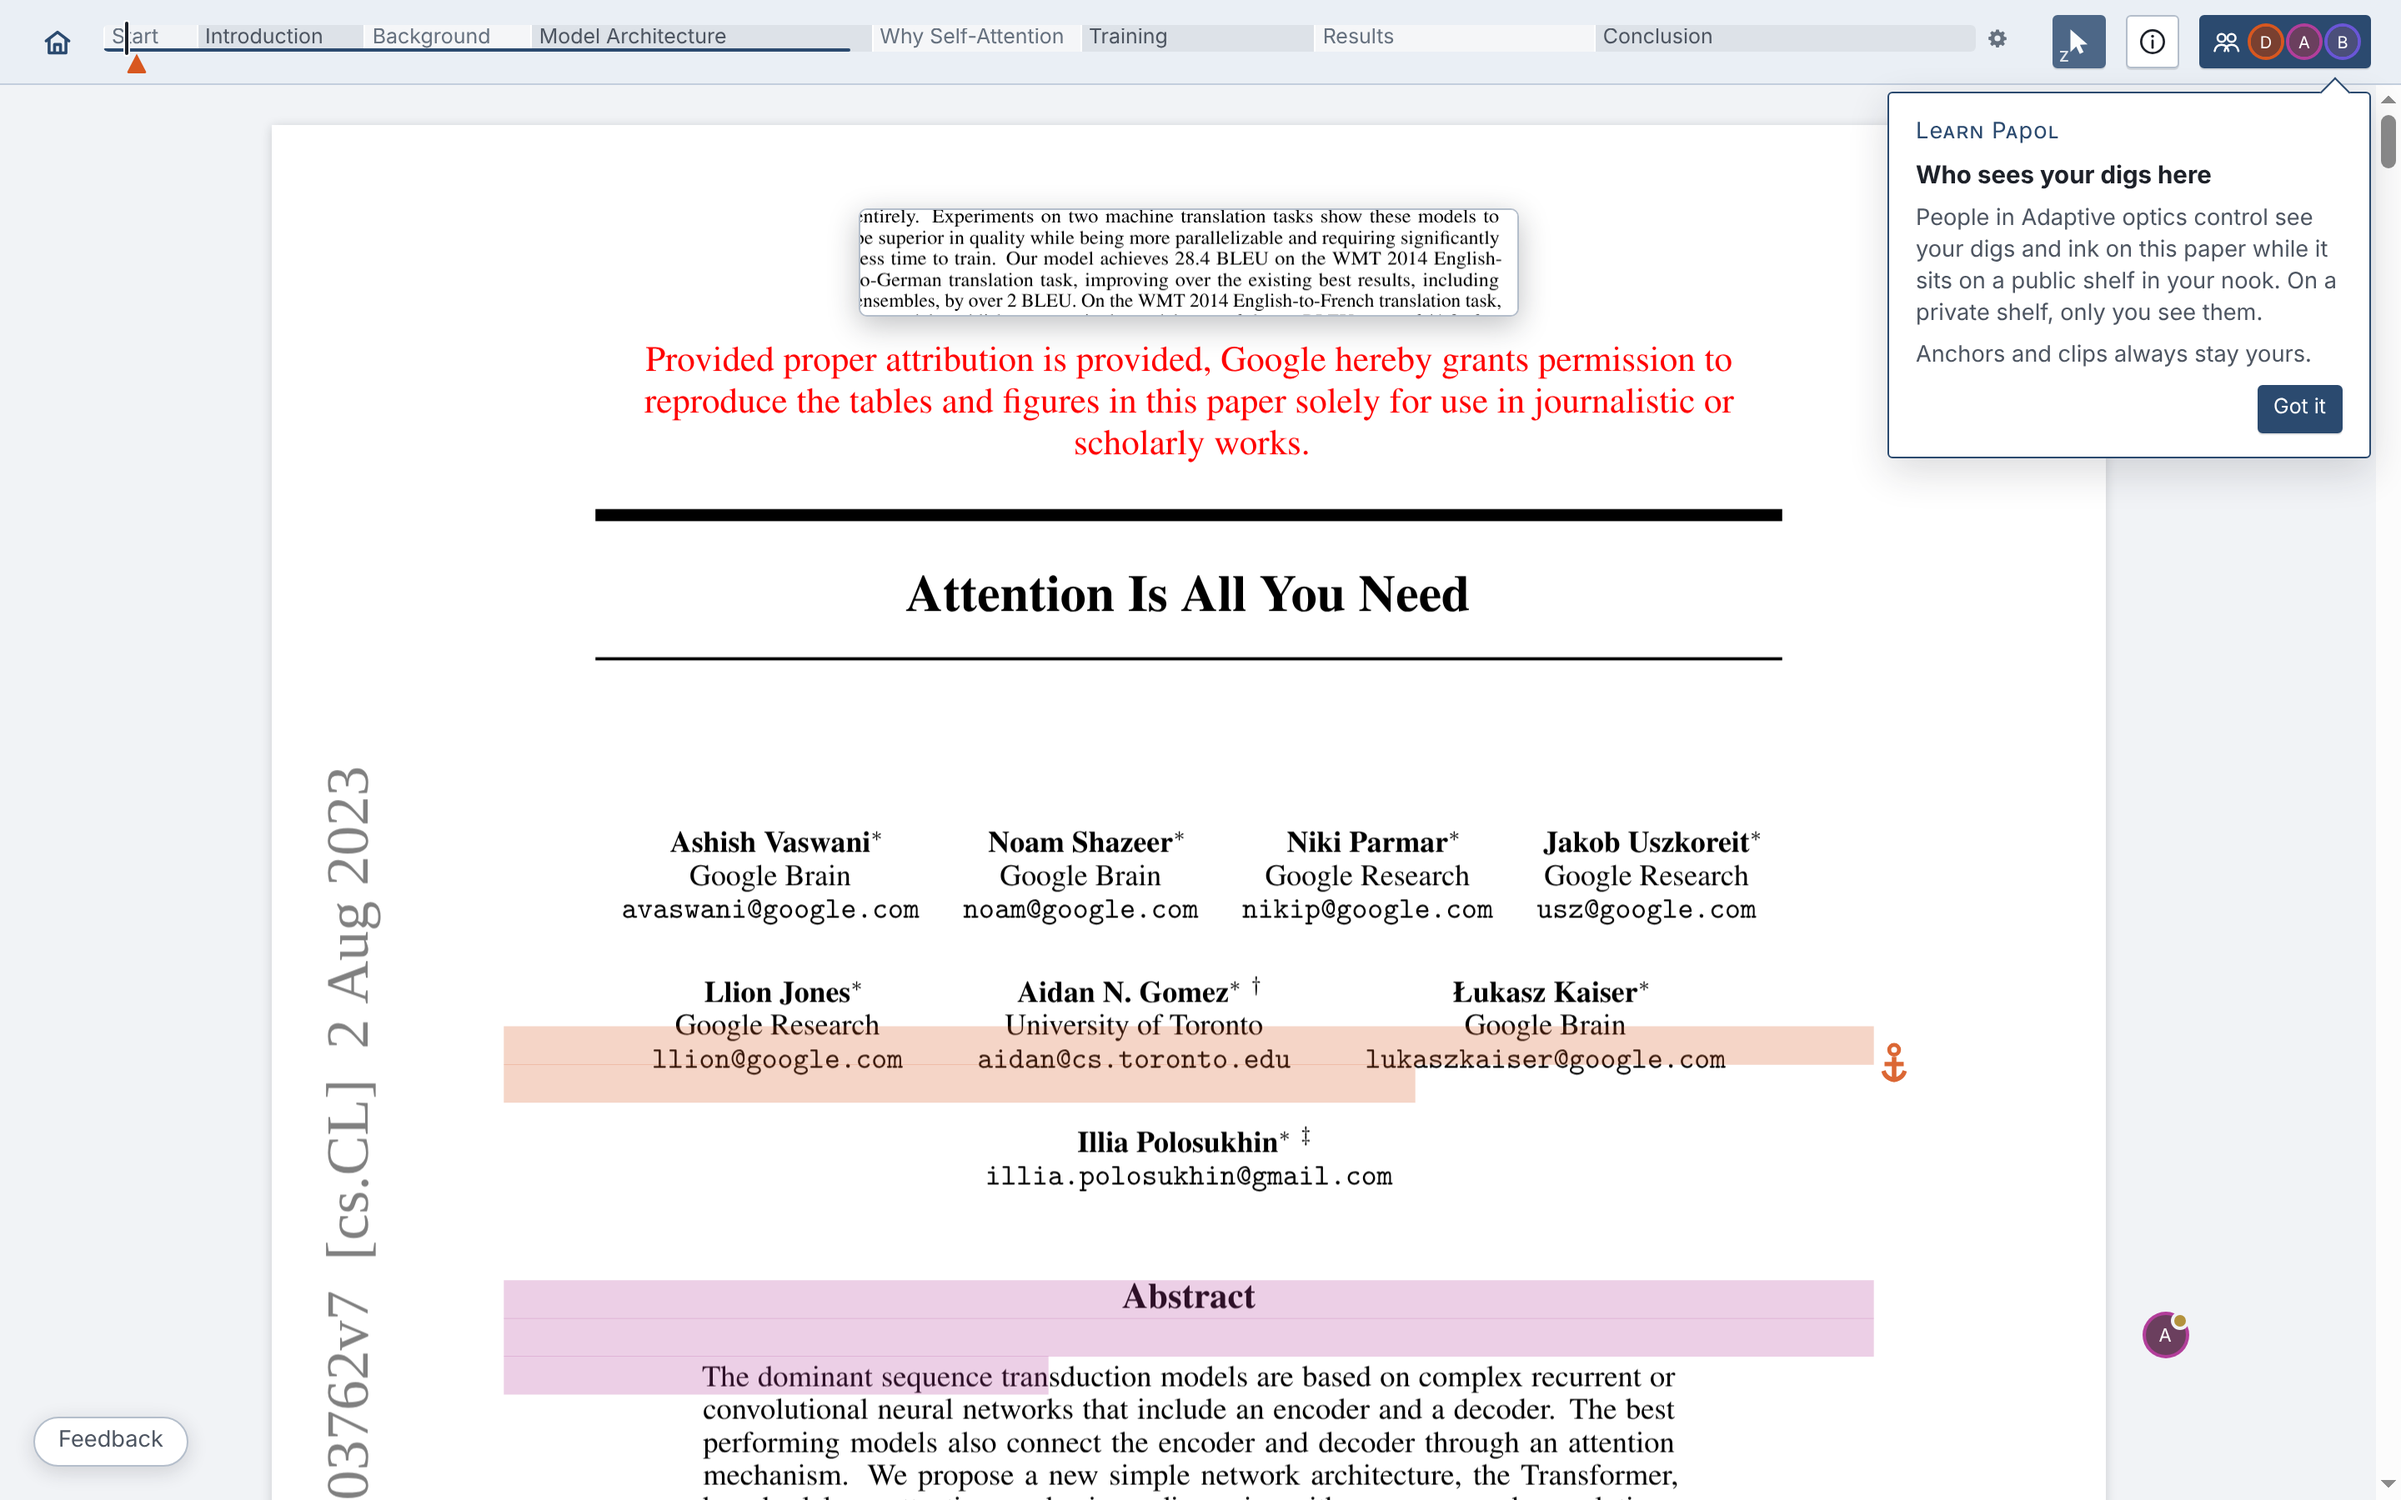
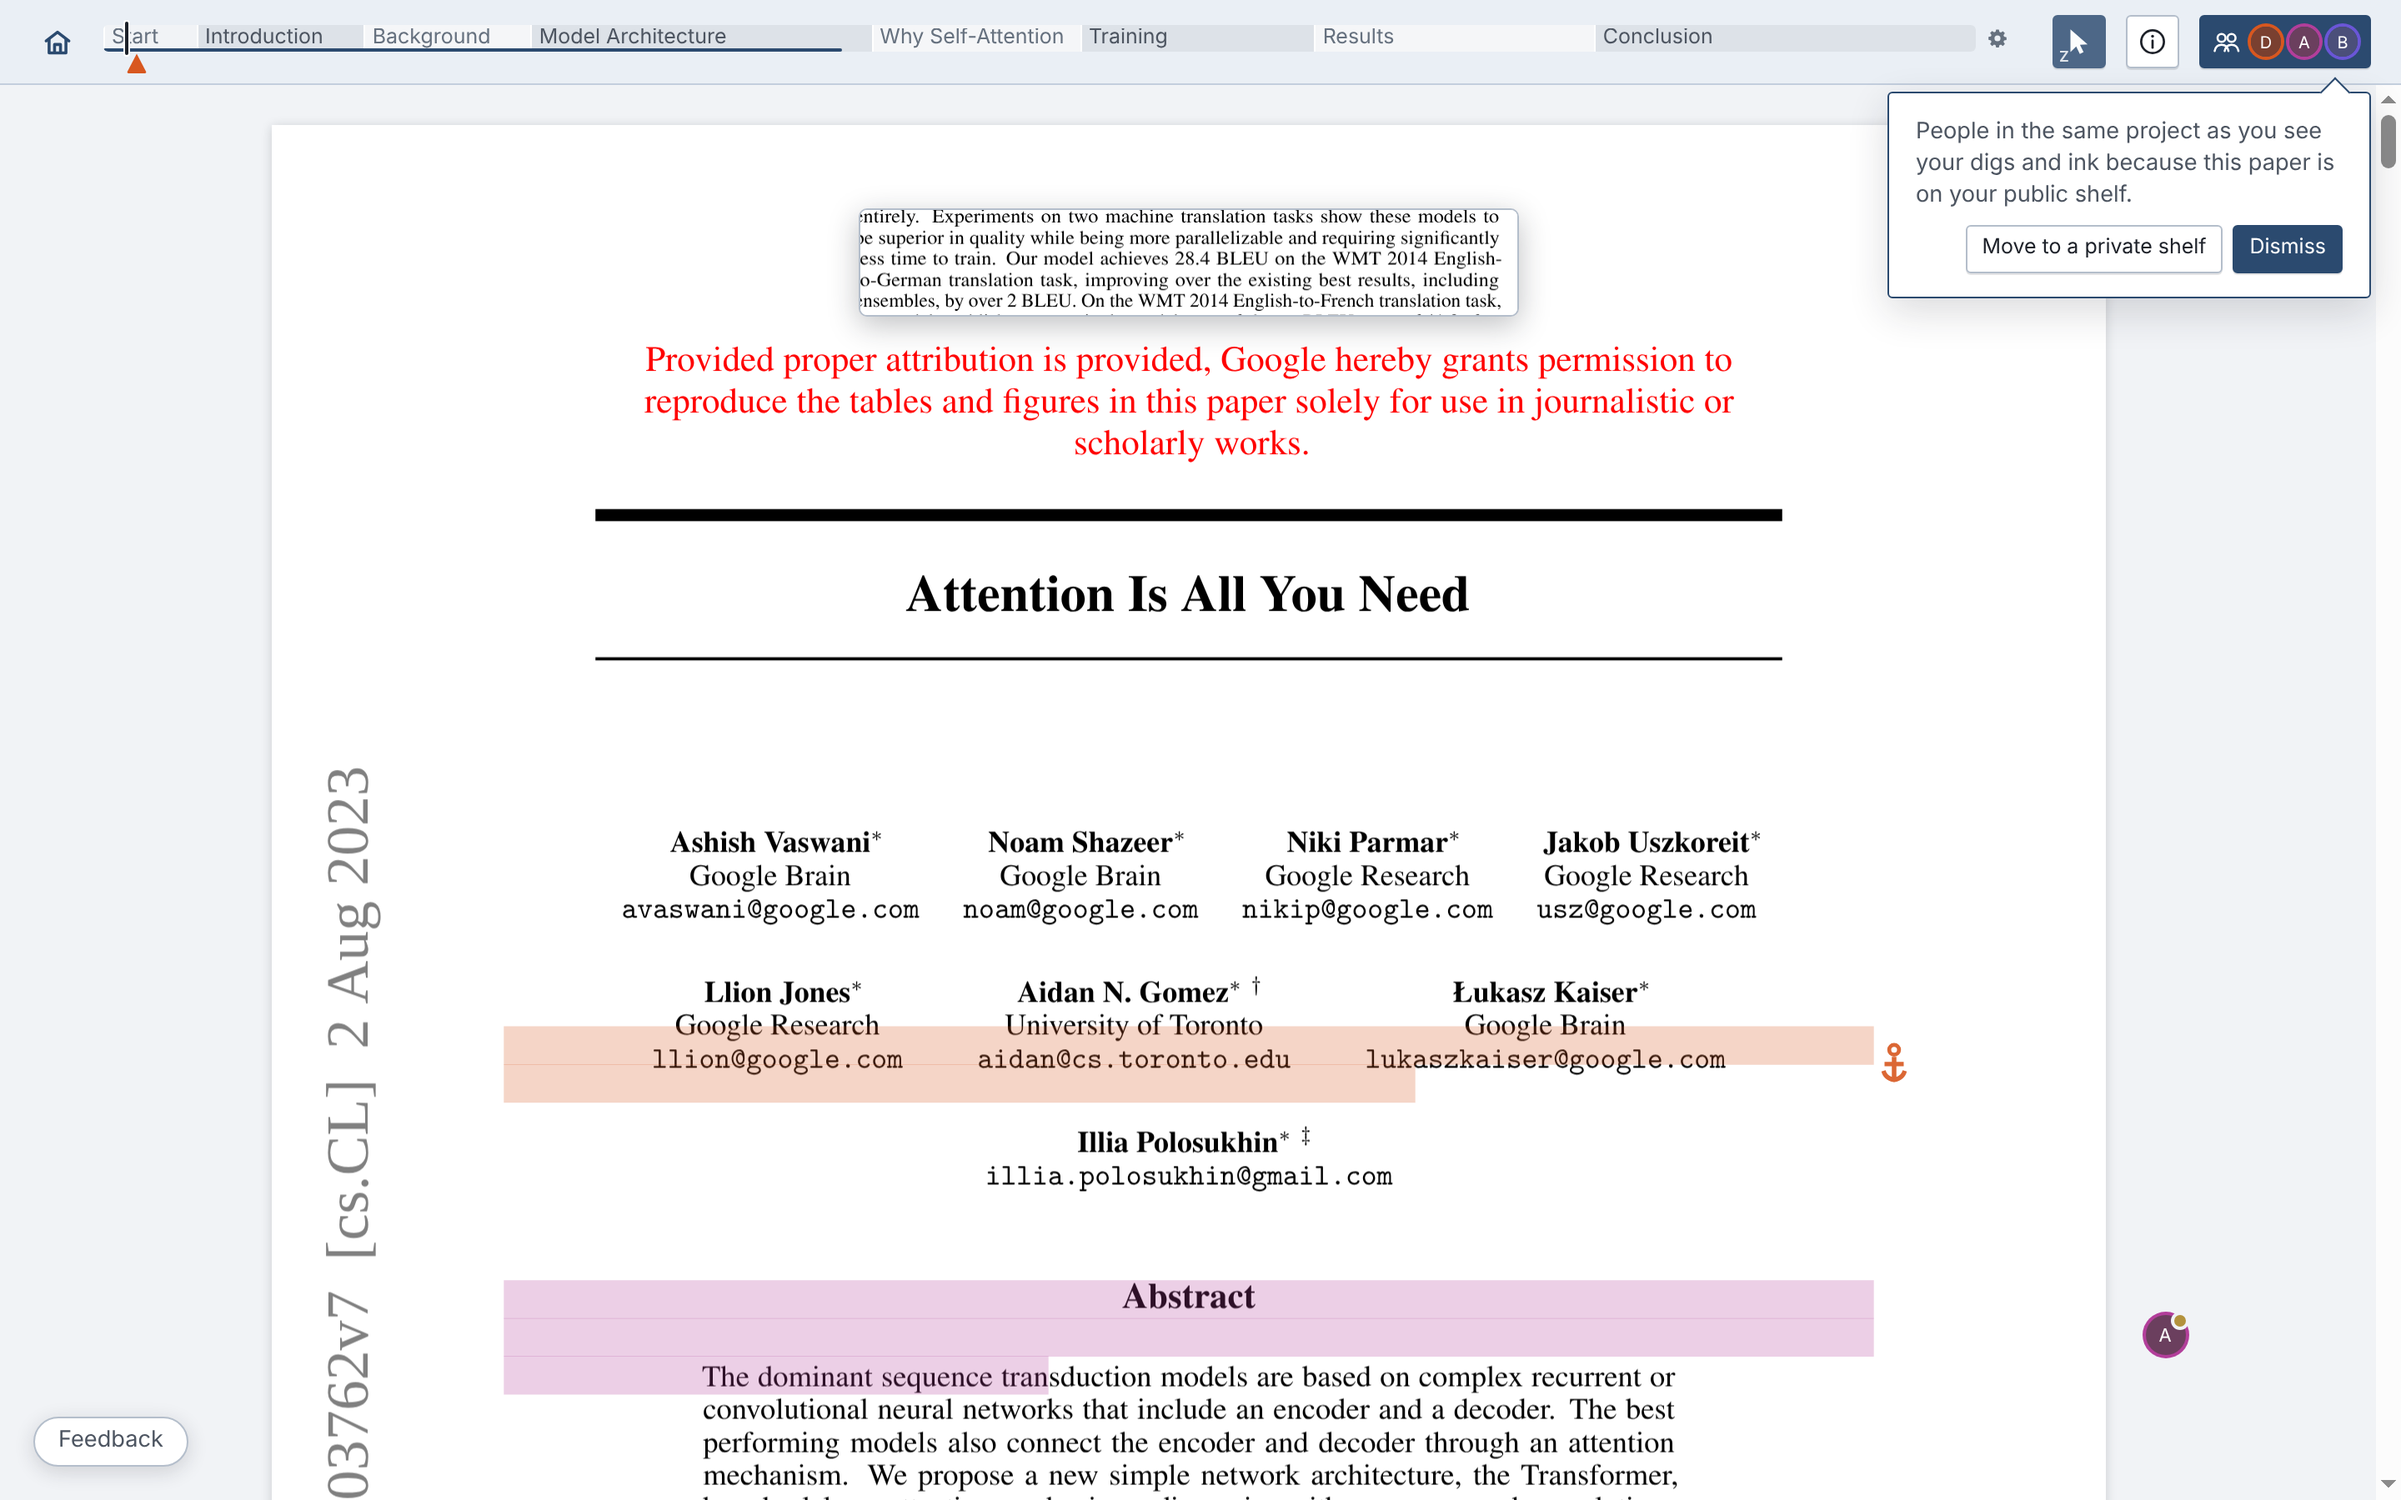
Viewer: the project tip says which shelf decides, and moves the paper
The card now says in one line whether people in the project see your digs
and ink, by the shelf the paper is on, and offers to move it to the other
kind. The project annotations route reports the reader's shelf as
my_shelf; there is no tip while they don't keep the paper.

Claude-Session: https://claude.ai/code/session_01PQZzMTGjGHdUVc3msWkwyr

Changed region(s): [[0.7812, 0.0622, 1.0, 0.2489], [0.9375, 0.2489, 1.0, 0.3111], [0.8125, 0.28, 0.9062, 0.3111]]

diff --git a/viewer/src/App.jsx b/viewer/src/App.jsx
@@ -23,6 +23,7 @@ import { printedInDocument } from '../../shared/printed.js';
 import { anchorsIn, annotationKinds, clipsIn, inkIn } from './annotationKinds.js';
 import { annotationDown, inMemberInk, marginLinesOf, memberInk, sortAnnotations, whoMarked, withProject } from './project.js';
 import { listProjects } from '../../shared/api/projects.js';
+import { updatePaper } from '../../shared/api/papers.js';
 import Avatar from '../../shared/ui/Avatar.jsx';
 import ThingBar from './ThingBar.jsx';
 import { selectionBarPlace } from './selectionBar.js';
@@ -762,6 +763,22 @@ export default function App() {
   const dismissProjectVisibilityTip = () => {
     setFeatureState(PROJECT_VISIBILITY_TIP, true);
     setProjectVisibilityTipDismissed(true);
+  };
+  const [movingShelf, setMovingShelf] = useState(false);
+  // Moves the reader's copy to their first shelf of the other kind, which
+  // is what decides whether the project sees their digs and ink.
+  const moveToOtherShelf = async () => {
+    if (!projectView?.myShelf || !paper?.sha256) return;
+    const toPublic = projectView.myShelf === 'private';
+    setMovingShelf(true);
+    try {
+      await updatePaper(paper.sha256, { is_public: toPublic });
+      setProjectView((view) => (view ? { ...view, myShelf: toPublic ? 'public' : 'private' } : view));
+    } catch (failure) {
+      setError(messageOf(failure));
+    } finally {
+      setMovingShelf(false);
+    }
   };
   // A PDF opened from disk: adding it to a nook is the one step that needs
   // an account. idle | ask (sign in first?) | waiting (for the library
@@ -1768,6 +1785,8 @@ export default function App() {
           // Others' anchors and clips are never drawn: one that carries a
           // dig the reader can see comes as a place, for its margin line.
           places: read.places ?? [],
+          // 'public', 'private', or null while the reader doesn't keep it.
+          myShelf: read.my_shelf ?? null,
         });
       })
       .catch(() => {
@@ -4670,23 +4689,21 @@ export default function App() {
                     </span>
                   )}
                 </button>
-                {projectView && !projectVisibilityTipDismissed && !projectMenuOpen && (
-                  <span className="learn-papol project-visibility-tip" role="dialog" aria-labelledby="project-visibility-tip-title">
-                    <span className="kicker">Learn Papol</span>
-                    <strong id="project-visibility-tip-title">Who sees your digs here</strong>
+                {projectView?.myShelf && !projectVisibilityTipDismissed && !projectMenuOpen && (
+                  <span className="learn-papol project-visibility-tip" role="dialog" aria-label="Who sees your digs">
                     <span>
-                      People in {projectView.name} see your digs and ink on this paper while
-                      it sits on a public shelf in your nook. On a private shelf, only you see them.
+                      {projectView.myShelf === 'public'
+                        ? 'People in the same project as you see your digs and ink because this paper is on your public shelf.'
+                        : 'Only you see your digs and ink because this paper is on your private shelf.'}
                     </span>
-                    <span>Anchors and clips always stay yours.</span>
-                    <button
-                      type="button"
-                      className="learn-papol-close"
-                      onClick={dismissProjectVisibilityTip}
-                      aria-label="Dismiss this tip"
-                    >
-                      Got it
-                    </button>
+                    <span className="pdf-viewer-tip-actions">
+                      <button type="button" onClick={moveToOtherShelf} disabled={movingShelf}>
+                        {projectView.myShelf === 'public' ? 'Move to a private shelf' : 'Move to a public shelf'}
+                      </button>
+                      <button type="button" className="learn-papol-close" onClick={dismissProjectVisibilityTip}>
+                        Dismiss
+                      </button>
+                    </span>
                   </span>
                 )}
                 {projectMenuOpen && (

diff --git a/cloudflare/test/projects.test.ts b/cloudflare/test/projects.test.ts
@@ -427,10 +427,13 @@ describe("a paper with the project on", () => {
     expect(Object.keys(view.digs)).toEqual([clip.uuid]);
     expect(await listed()).toEqual([onPaper.uuid, onClip.uuid].sort());
     await ok("POST", `/api/digs/${onPaper.uuid}/posts`, { headers: dana.headers, json: { body: "Agreed." } });
+    const herShelf = async () => (await ok("GET", `/api/projects/${project.uuid}/papers/${A_PAPER}/annotations`, { headers: ana.headers })).my_shelf;
+    expect(await herShelf()).toBe("public");
 
     // Moved to a private shelf, all of it goes from the project at once.
     const shelf = await ok("POST", "/api/shelves", { headers: ana.headers, json: { name: "Mine", color: "#123456", is_public: false } });
     await ok("PUT", `/api/papers/${name}`, { headers: ana.headers, json: { shelf_uuid: shelf.uuid } });
+    expect(await herShelf()).toBe("private");
     view = await seen();
     expect(view.annotations).toEqual([]);
     expect(view.places).toEqual([]);
@@ -442,7 +445,9 @@ describe("a paper with the project on", () => {
     expect((await ok("GET", `/api/digs/${onPaper.uuid}`, { headers: ana.headers })).posts.map((p: any) => p.body)).toEqual(["Agreed."]);
 
     // Back on a public shelf, everything is back.
-    await ok("PUT", `/api/papers/${name}`, { headers: ana.headers, json: { shelf_uuid: await defaultShelf(ana) } });
+    // The viewer's tip moves it by saying which kind of shelf.
+    await ok("PUT", `/api/papers/${name}`, { headers: ana.headers, json: { is_public: true } });
+    expect(await herShelf()).toBe("public");
     expect(await listed()).toEqual([onPaper.uuid, onClip.uuid].sort());
   });
 

diff --git a/cloudflare/src/routes/projects.ts b/cloudflare/src/routes/projects.ts
@@ -818,6 +818,11 @@ export function projectRoutes(router: Router) {
     const shown = rows.filter(drawn);
     const places = rows.filter((a) => !drawn(a) && `annotation:${a.uuid}` in annotationPins);
     const out = (a: Row) => { const { shared: _shared, ...rest } = a; return { ...annotationOut(rest), user: people.get(String(a.user_uuid)) ?? null }; };
+    // Which shelf the reader keeps the paper on decides whether the project
+    // sees their digs and ink; none while they don't keep it.
+    const shelf = await one<Row>(env.DB,
+      `SELECT s.is_public FROM copies c JOIN shelves s ON s.uuid = c.shelf_uuid AND s.deleted_at IS NULL
+       WHERE c.user_uuid = ? AND c.paper_sha256 = ? AND c.deleted_at IS NULL LIMIT 1`, me.uuid, digest);
     return json({
       project: { uuid: project.uuid, name: project.name, members: members.map((projectMember) => memberOut(projectMember)) },
       me: me.uuid,
@@ -826,6 +831,7 @@ export function projectRoutes(router: Router) {
       digs: Object.fromEntries(Object.entries(annotationPins).map(([key, pin]) => [key.slice("annotation:".length), pin])),
       // The digs on the paper itself, which head the viewer's margin.
       paper_digs: paperPin ?? null,
+      my_shelf: shelf ? (Number(shelf.is_public) ? "public" : "private") : null,
     });
   });
 
